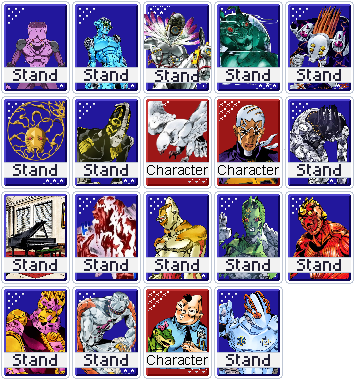
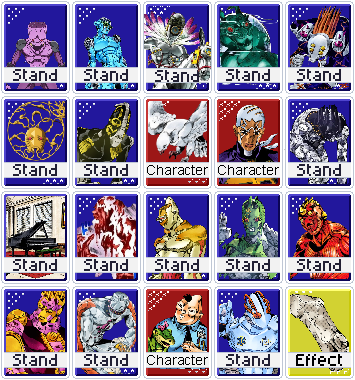
Add DIO's Bone joker

Changed region(s): [[0.8056, 0.7526, 1.0, 1.0]]

diff --git a/compendium/tests/test_build.py b/compendium/tests/test_build.py
@@ -28,7 +28,7 @@ def test_outputs_exist(site):
 
 
 def test_data_has_every_joker(data):
-    assert len(data["jokers"]) == 175 and data["version"] == "v9.9.9"
+    assert len(data["jokers"]) == 176 and data["version"] == "v9.9.9"
     assert len(data["themes"]) == 57
 
 

diff --git a/compendium/tests/test_lua_env.py b/compendium/tests/test_lua_env.py
@@ -7,7 +7,7 @@ def find(mod, key):
 
 
 def test_loads_every_joker(mod):
-    assert len(mod.jokers) == 175
+    assert len(mod.jokers) == 176
 
 
 def test_order_is_collection_order(mod):
